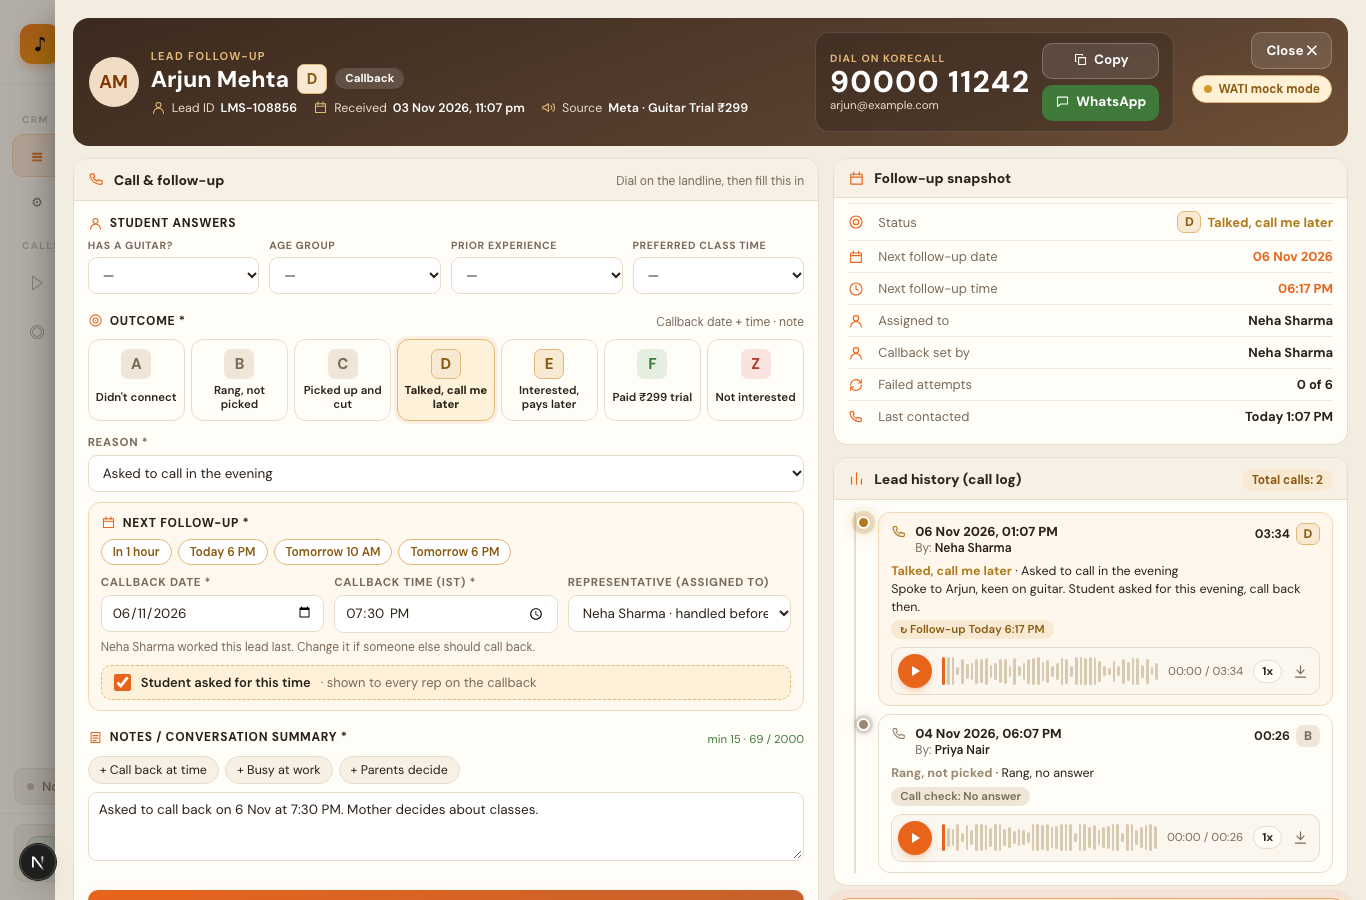
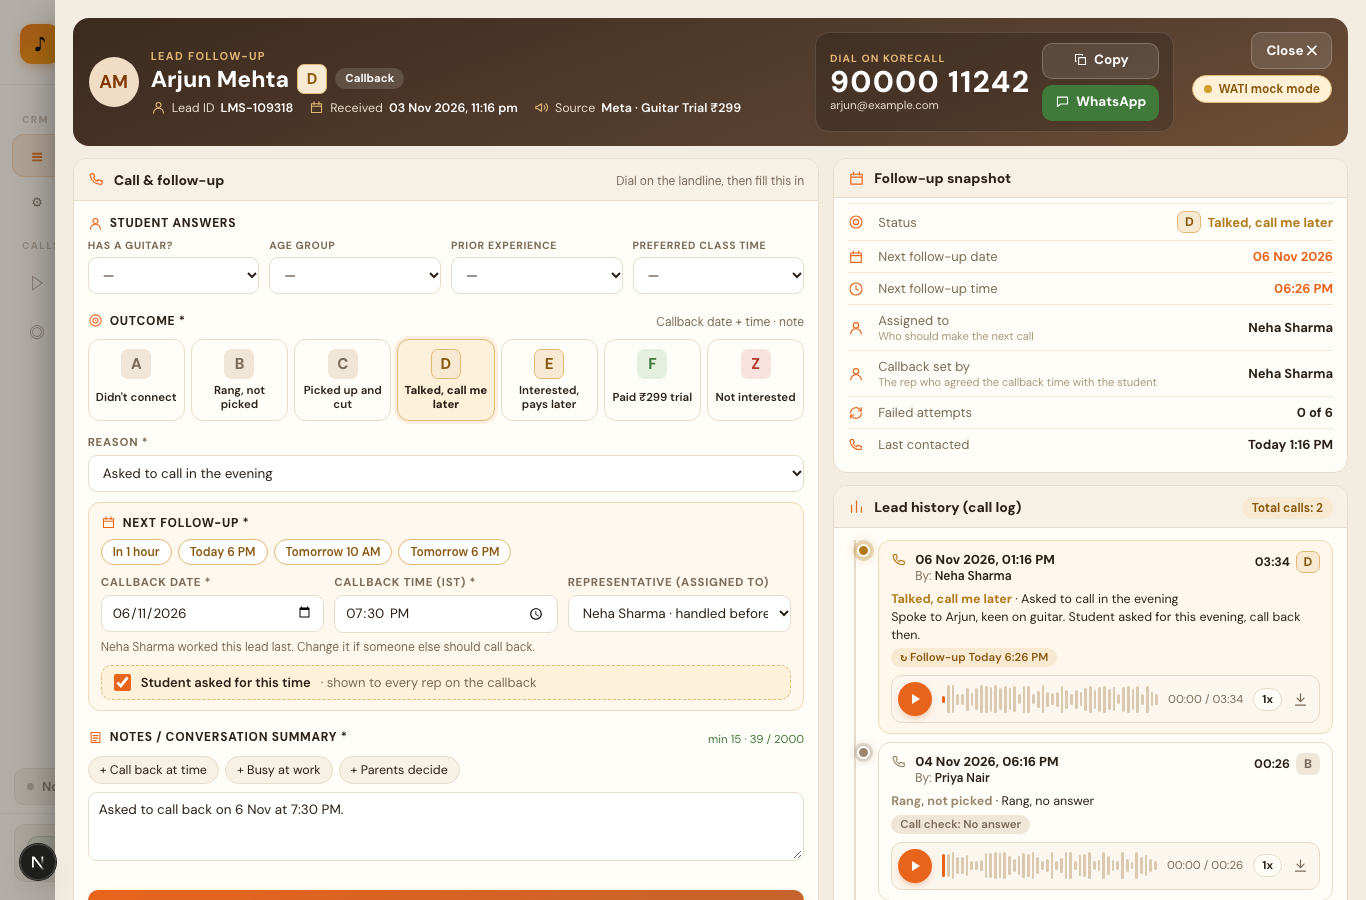
feat(crm): owner assignment box in the lead form
'Lead assignment' card (owner / reassign_leads): currently assigned to
(greyed 'Shared pool' when nobody), previously assigned to, and an
'Assign this lead to' rep dropdown that applies at once; snapshot,
history and the callback form follow. Every assignment change now
records the previous assignee. Snapshot explains 'Assigned to' and
'Callback set by'.

Changed region(s): [[0.5842, 0.3111, 1.0, 1.0], [0.1845, 0.0933, 0.5534, 0.1244], [0.3075, 0.8711, 0.3382, 0.9022]]

diff --git a/apps/web/components/crm/LeadDrawer.tsx b/apps/web/components/crm/LeadDrawer.tsx
@@ -109,6 +109,7 @@ function DrawerBody({ leadId, onClose, onSaved, isOwner }: { leadId: string; onC
       )}
       <div className="lf-grid">
         <div style={{ display: "grid", gap: 12, minWidth: 0 }}>
+          {can("reassign_leads") && <AssignmentBox d={d} cfg={cfg} onChanged={() => mutate()} />}
           <OutcomeForm d={d} cfg={cfg} readOnly={readOnly} onDraft={setDraft} onSaved={(m) => { mutate(); onSaved(m); onClose(); }} onReload={() => mutate()} />
           <div ref={waRef}><WhatsAppPanel d={d} cfg={cfg} readOnly={readOnly} onSent={() => mutate()} /></div>
         </div>
@@ -184,6 +185,62 @@ function SheetHeader({ d, watiMode, onClose, onWhatsApp, revive }: { d: LeadDeta
   );
 }
 
+/** Owner / reassign_leads: who has this lead, who had it before, and hand it to someone else. */
+function AssignmentBox({ d, cfg, onChanged }: { d: LeadDetail; cfg: CrmConfig; onChanged: () => void }) {
+  const l = d.lead;
+  const [to, setTo] = useState("");
+  const [busy, setBusy] = useState(false);
+  const [msg, setMsg] = useState("");
+  const current = l.assigned_to_name ?? null;
+  const since = d.assignments.find((a) => a.name === current);
+  // Who had it before the latest change (recorded on the change itself), else the last different name in the history
+  const previous = d.assignments[0]?.previous_name ?? d.assignments.find((a) => a.name !== current)?.name ?? null;
+  const target = to === "pool" ? null : to;
+  const same = to === "" || (target ?? null) === (l.assigned_to ?? null);
+  const assign = async () => {
+    setBusy(true);
+    setMsg("");
+    try {
+      const r = await api.post<{ updated: number; assigned_to_name: string | null }>("/crm/leads/assign", { lead_ids: [l.id], employee_id: target });
+      setMsg(r.assigned_to_name ? `Assigned to ${r.assigned_to_name}` : "Moved back to the shared pool");
+      setTo("");
+      onChanged();
+    } catch (e) {
+      setMsg(`! ${(e as Error).message}`);
+    } finally {
+      setBusy(false);
+    }
+  };
+  const box = (muted: boolean) => ({ background: muted ? "#f1ebe2" : "#fff", border: `1px ${muted ? "dashed" : "solid"} ${muted ? "#d9c9b1" : R.line}`, borderRadius: 10, padding: "8px 12px", minHeight: 42, display: "flex", gap: 9, alignItems: "center" } as const);
+  return (
+    <Card icon="user" title="Lead assignment" right={<span style={{ fontSize: 12, color: R.mute }}>Owner · applies straight away</span>}>
+      <div className="lf-3" style={{ alignItems: "end" }}>
+        <div>
+          <span style={labelStyle}>Currently assigned to</span>
+          <div style={box(!current)} aria-label="Currently assigned to">
+            {current ? <><Avatar name={current} size={26} /><span style={{ minWidth: 0 }}><b style={{ fontSize: 13.5 }}>{current}</b>
+              {since && <div style={{ fontSize: 11, color: R.mute }}>since {new Date(since.at).toLocaleDateString("en-GB", { timeZone: IST, day: "2-digit", month: "short" })}{since.by_name ? ` · by ${since.by_name}` : ""}</div>}</span></>
+              : <span style={{ color: "#a8977f", fontSize: 13 }}>— Shared pool (not assigned)</span>}
+          </div>
+        </div>
+        <label>
+          <span style={labelStyle}>Assign this lead to</span>
+          <select value={to} onChange={(e) => { setTo(e.target.value); setMsg(""); }} aria-label="Assign this lead to" style={{ ...inputStyle, minHeight: 42 }}>
+            <option value="">Choose a representative…</option>
+            {cfg.reps.map((r) => <option key={r.id} value={r.id}>{r.name}{r.id === l.assigned_to ? " (current)" : ""}</option>)}
+            <option value="pool">Shared pool (unassign)</option>
+          </select>
+        </label>
+        <Btn onClick={assign} disabled={same || busy} style={{ minHeight: 42 }}>{busy ? "Assigning…" : to === "pool" ? "Move to pool" : "Assign"}</Btn>
+      </div>
+      <div style={{ display: "flex", gap: 10, alignItems: "center", flexWrap: "wrap", marginTop: 8, fontSize: 12.5 }}>
+        <span style={{ color: previous ? R.ink : "#a8977f" }}>Previously assigned to: <b>{previous ?? "—"}</b></span>
+        {msg && <span role="status" style={{ marginLeft: "auto", fontWeight: 700, color: msg.startsWith("!") ? R.bad : R.good }}>{msg}</span>}
+      </div>
+    </Card>
+  );
+}
+
 function SectionLabel({ icon, children, right }: { icon: Parameters<typeof Icon>[0]["name"]; children: ReactNode; right?: ReactNode }) {
   return (
     <div style={{ display: "flex", alignItems: "center", gap: 7, margin: "2px 0 8px" }}>
@@ -228,6 +285,8 @@ function OutcomeForm({ d, cfg, readOnly, onDraft, onSaved, onReload }: { d: Lead
     return null;
   }, [d.timeline]);
   const [repId, setRepId] = useState<string>(l.assigned_to ?? lastRep?.id ?? "");
+  // The owner may reassign while this form is open: follow the new assignee
+  useEffect(() => { if (l.assigned_to) setRepId(l.assigned_to); }, [l.assigned_to]);
   const [code, setCode] = useState<Code | null>(null);
   const [reason, setReason] = useState("");
   const [note, setNote] = useState("");

diff --git a/apps/api/src/services/crm.service.ts b/apps/api/src/services/crm.service.ts
@@ -126,7 +126,7 @@ export async function saveOutcome(leadId: string, user: User, input: OutcomeInpu
       `INSERT INTO lead_interactions (lead_id, employee_id, kind, code, reason, note, answers, next_followup_at, meta)
        VALUES ($1, $2, 'call_outcome', $3, $4, $5, $6, $7, $8) RETURNING id, created_at`,
       [leadId, user.sub, input.code, input.reason || null, input.note || null, JSON.stringify(input.answers),
-       s.next_followup_at, JSON.stringify({ status: s.status, attempts: s.attempts, student_set_time: !!input.student_set_time, amount: s.amount, assigned_to: input.assigned_to ?? null })]
+       s.next_followup_at, JSON.stringify({ status: s.status, attempts: s.attempts, student_set_time: !!input.student_set_time, amount: s.amount, assigned_to: input.assigned_to ?? null, previous: lead.assigned_to })]
     );
     const { rows: [saved] } = await client.query(
       `UPDATE leads SET status = $2::text, current_code = $3, next_followup_at = $4, attempts = $5,
@@ -209,7 +209,7 @@ export async function leadDetail(leadId: string) {
   if (!lead.locked_by_name) lead.locked_by = null;
   const checks = await callCheckOn();
 
-  const [ixRes, callRes, links] = await Promise.all([
+  const [ixRes, callRes, links, assigns] = await Promise.all([
     pool.query(
       `SELECT i.id, i.kind, i.code, i.reason, i.note, i.answers, i.next_followup_at, i.call_id, i.meta, i.created_at,
               i.employee_id, e.name AS employee_name, t.label AS template_label
@@ -230,6 +230,17 @@ export async function leadDetail(leadId: string) {
       [lead.phone10]
     ),
     getSetting<Record<string, string>>("links", {}),
+    // Every assignment change, newest first: owner assigns and D/E callbacks (meta.assigned_to)
+    pool.query(
+      `SELECT i.created_at AS at, a.name, b.name AS by_name, p.name AS previous_name
+       FROM lead_interactions i
+       LEFT JOIN employees a ON a.id = (i.meta ->> 'assigned_to')::uuid
+       LEFT JOIN employees p ON p.id = (i.meta ->> 'previous')::uuid
+       LEFT JOIN employees b ON b.id = i.employee_id
+       WHERE i.lead_id = $1 AND ((i.kind = 'system' AND i.meta ? 'assigned_to') OR i.meta ->> 'assigned_to' IS NOT NULL)
+       ORDER BY i.created_at DESC`,
+      [leadId]
+    ),
   ]);
 
   const expiredBefore = Date.now() - RETENTION_DAYS * 86_400_000;
@@ -270,7 +281,7 @@ export async function leadDetail(leadId: string) {
   };
 
   const lastCallback = ixRes.rows.find((i) => i.code === "D" || i.code === "E");
-  return { lead, timeline, wa_vars: waVars, callback_note: lastCallback ? (lastCallback.note ?? lastCallback.reason) : null, server_now: new Date() };
+  return { lead, timeline, assignments: assigns.rows, wa_vars: waVars, callback_note: lastCallback ? (lastCallback.note ?? lastCallback.reason) : null, server_now: new Date() };
 }
 
 // ── Queue ──────────────────────────────────────────────────────────────────
@@ -470,17 +481,21 @@ export async function assignLeads(leadIds: string[], employeeId: string | null, 
       if (!e) throw new CrmError(400, "Pick an active representative");
       repName = e.name;
     }
+    // Keep who had each lead before, so the drawer can say "previously assigned to"
     const { rows } = await client.query(
-      `UPDATE leads SET assigned_to = $2, version = version + 1, updated_by = $3, updated_at = NOW()
-       WHERE id = ANY($1::uuid[]) AND assigned_to IS DISTINCT FROM $2 RETURNING id`,
+      `WITH old AS (SELECT id, assigned_to FROM leads WHERE id = ANY($1::uuid[]) FOR UPDATE)
+       UPDATE leads l SET assigned_to = $2, version = l.version + 1, updated_by = $3, updated_at = NOW()
+       FROM old WHERE l.id = old.id AND old.assigned_to IS DISTINCT FROM $2
+       RETURNING l.id, old.assigned_to AS previous`,
       [leadIds, employeeId, user.sub]
     );
     if (rows.length) {
       await client.query(
         `INSERT INTO lead_interactions (lead_id, employee_id, kind, note, meta)
-         SELECT id, $2, 'system', $3, $4 FROM unnest($1::uuid[]) AS id`,
-        [rows.map((r) => r.id), user.sub, repName ? `Assigned to ${repName} by ${user.name}` : `Moved back to the shared pool by ${user.name}`,
-         JSON.stringify({ assigned_to: employeeId })]
+         SELECT x.id, $3, 'system', $4, jsonb_build_object('assigned_to', $5::uuid, 'previous', x.previous)
+         FROM unnest($1::uuid[], $2::uuid[]) AS x(id, previous)`,
+        [rows.map((r) => r.id), rows.map((r) => r.previous), user.sub,
+         repName ? `Assigned to ${repName} by ${user.name}` : `Moved back to the shared pool by ${user.name}`, employeeId]
       );
     }
     await client.query("COMMIT");

diff --git a/apps/web/components/crm/History.tsx b/apps/web/components/crm/History.tsx
@@ -171,10 +171,10 @@ function Entry({ e, first, isOwner, onChanged }: { e: TimelineEntry; first: bool
 export function Snapshot({ d }: { d: LeadDetail }) {
   const l = d.lead;
   const m = codeMeta(l.current_code);
-  const row = (icon: Parameters<typeof Icon>[0]["name"], k: string, v: ReactNode, color?: string) => (
+  const row = (icon: Parameters<typeof Icon>[0]["name"], k: string, v: ReactNode, color?: string, hint?: string) => (
     <div style={{ display: "grid", gridTemplateColumns: "22px 1fr auto", gap: 8, alignItems: "center", padding: "7px 0", borderTop: "1px solid #f1e8da", fontSize: 13 }}>
       <span style={{ color: R.out, display: "inline-flex" }}><Icon name={icon} size={16} /></span>
-      <span style={{ color: R.mute }}>{k}</span>
+      <span style={{ color: R.mute }}>{k}{hint && <div style={{ fontSize: 11, color: "#a8977f" }}>{hint}</div>}</span>
       <span style={{ textAlign: "right", fontWeight: 700, color: color ?? R.ink }}>{v}</span>
     </div>
   );
@@ -185,8 +185,8 @@ export function Snapshot({ d }: { d: LeadDetail }) {
         {row("target", "Status", <span style={{ display: "inline-flex", gap: 6, alignItems: "center" }}><CodeChip code={l.current_code} />{m ? m.label : STATUS_LABEL[l.status]}</span>, m ? KIND_COLOR[m.kind] : undefined)}
         {row("calendar", "Next follow-up date", f ? longDate(f) : "—", f ? R.out : undefined)}
         {row("clock", "Next follow-up time", f ? timeOf(f) : "—", f ? R.out : undefined)}
-        {row("user", "Assigned to", l.assigned_to_name ?? "—")}
-        {row("user", "Callback set by", l.callback_set_by_name ?? "—")}
+        {row("user", "Assigned to", l.assigned_to_name ?? <span style={{ color: "#a8977f", fontWeight: 600 }}>Shared pool</span>, undefined, "Who should make the next call")}
+        {row("user", "Callback set by", l.callback_set_by_name ?? "—", undefined, "The rep who agreed the callback time with the student")}
         {row("retry", "Failed attempts", `${l.attempts} of 6`)}
         {row("phone", "Last contacted", l.last_contacted_at ? fmtWhen(l.last_contacted_at) : "Never")}
       </div>

diff --git a/apps/api/src/lib/crm/db.test.ts b/apps/api/src/lib/crm/db.test.ts
@@ -155,5 +155,7 @@ test("assign: leads go to a rep and back to the pool, bumping version and loggin
   assert.equal((await pool.query("SELECT assigned_to FROM leads WHERE id = $1", [a.id])).rows[0].assigned_to, null);
   const notes = (await pool.query("SELECT note FROM lead_interactions WHERE lead_id = $1 AND kind = 'system' ORDER BY created_at", [a.id])).rows.map((x) => x.note);
   assert.deepEqual(notes, ["Assigned to Neha by Owner", "Moved back to the shared pool by Owner"]);
+  const prev = (await pool.query("SELECT meta->>'previous' AS p FROM lead_interactions WHERE lead_id = $1 AND kind = 'system' ORDER BY created_at DESC LIMIT 1", [a.id])).rows[0].p;
+  assert.equal(prev, neha.sub);  // the unassign remembers Neha had it
   await assert.rejects(assignLeads([b.id], "00000000-0000-0000-0000-000000000000", owner), (e: CrmError) => e.status === 400);
 });

diff --git a/apps/web/lib/crm.ts b/apps/web/lib/crm.ts
@@ -82,6 +82,8 @@ export type LeadDetail = {
   lead: LeadRow & { email: string | null; phone_raw: string; answers: { question_id: string; label: string; value: string }[];
     version: number; locked_until: string | null; updated_by_name: string | null; external_id: string | null };
   timeline: TimelineEntry[];
+  /** Assignment changes, newest first (owner assigns + D/E callbacks); name null = back to the shared pool */
+  assignments: { at: string; name: string | null; by_name: string | null; previous_name: string | null }[];
   wa_vars: Record<string, string>;
   callback_note: string | null;
   server_now: string;
